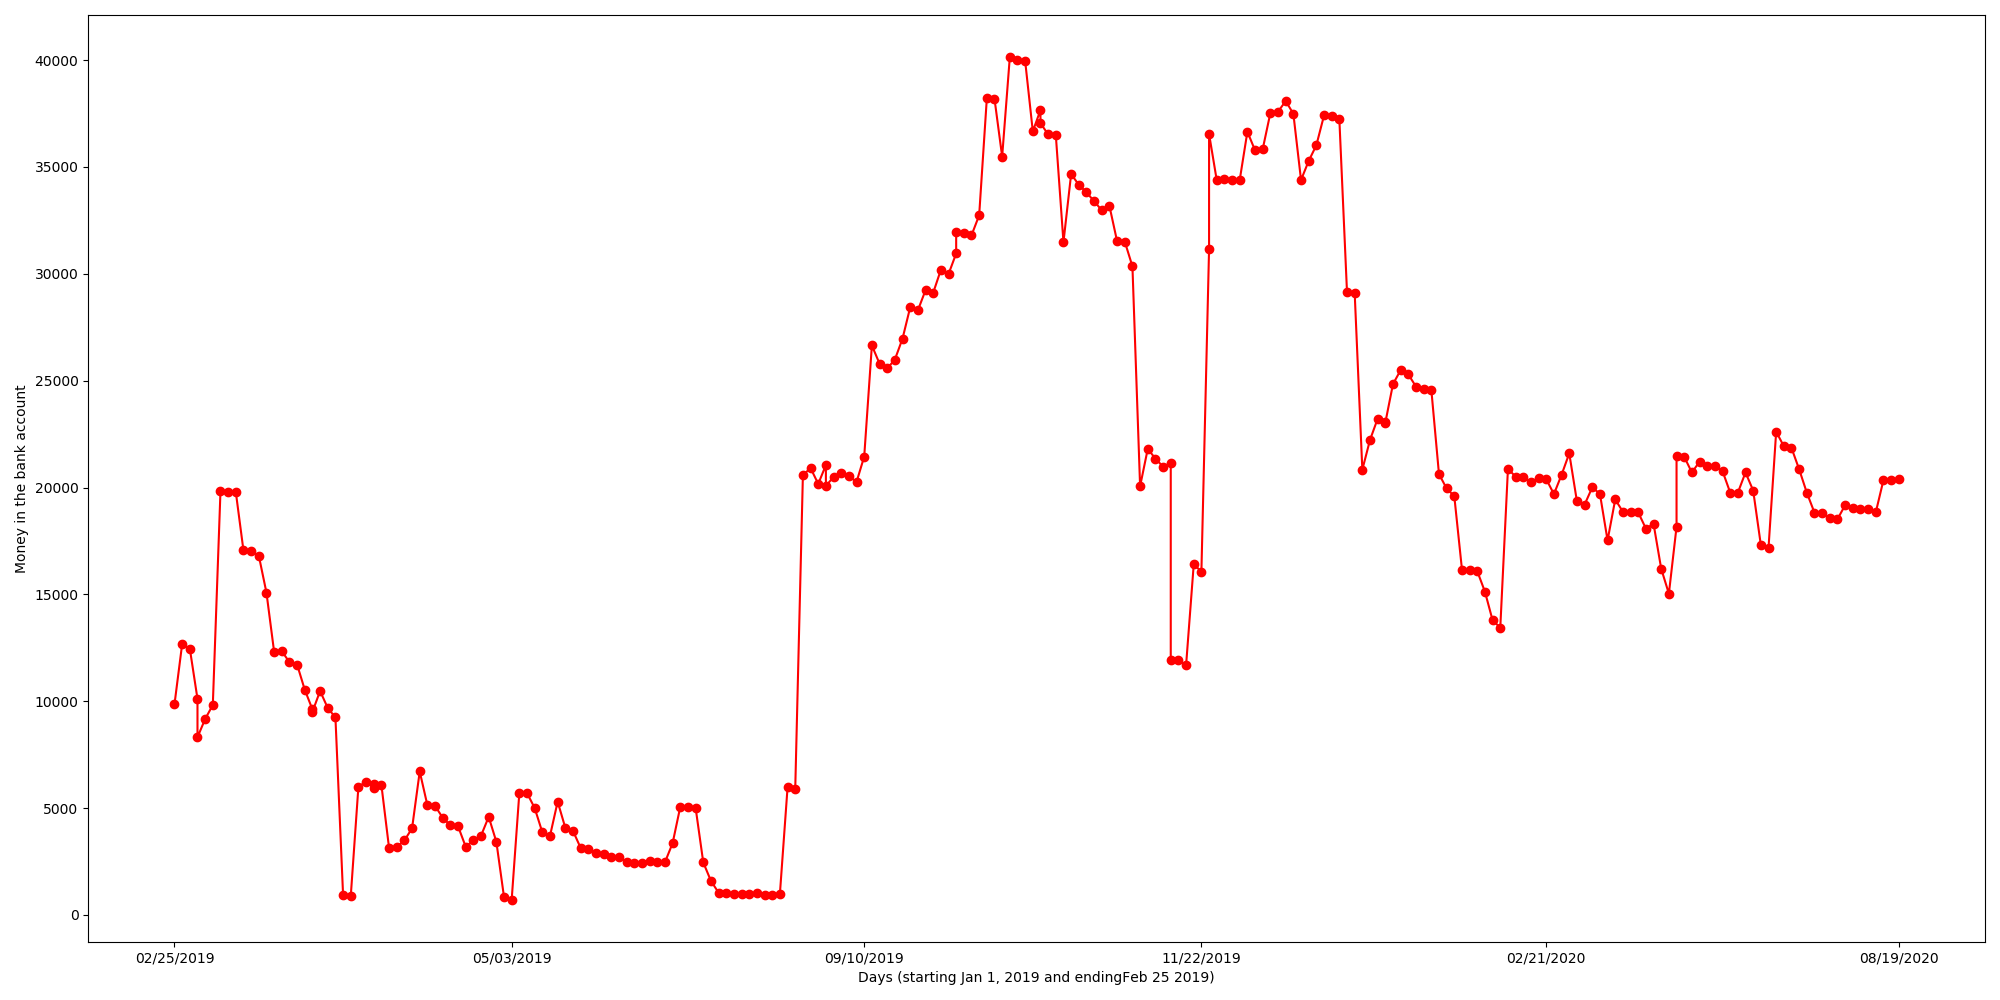
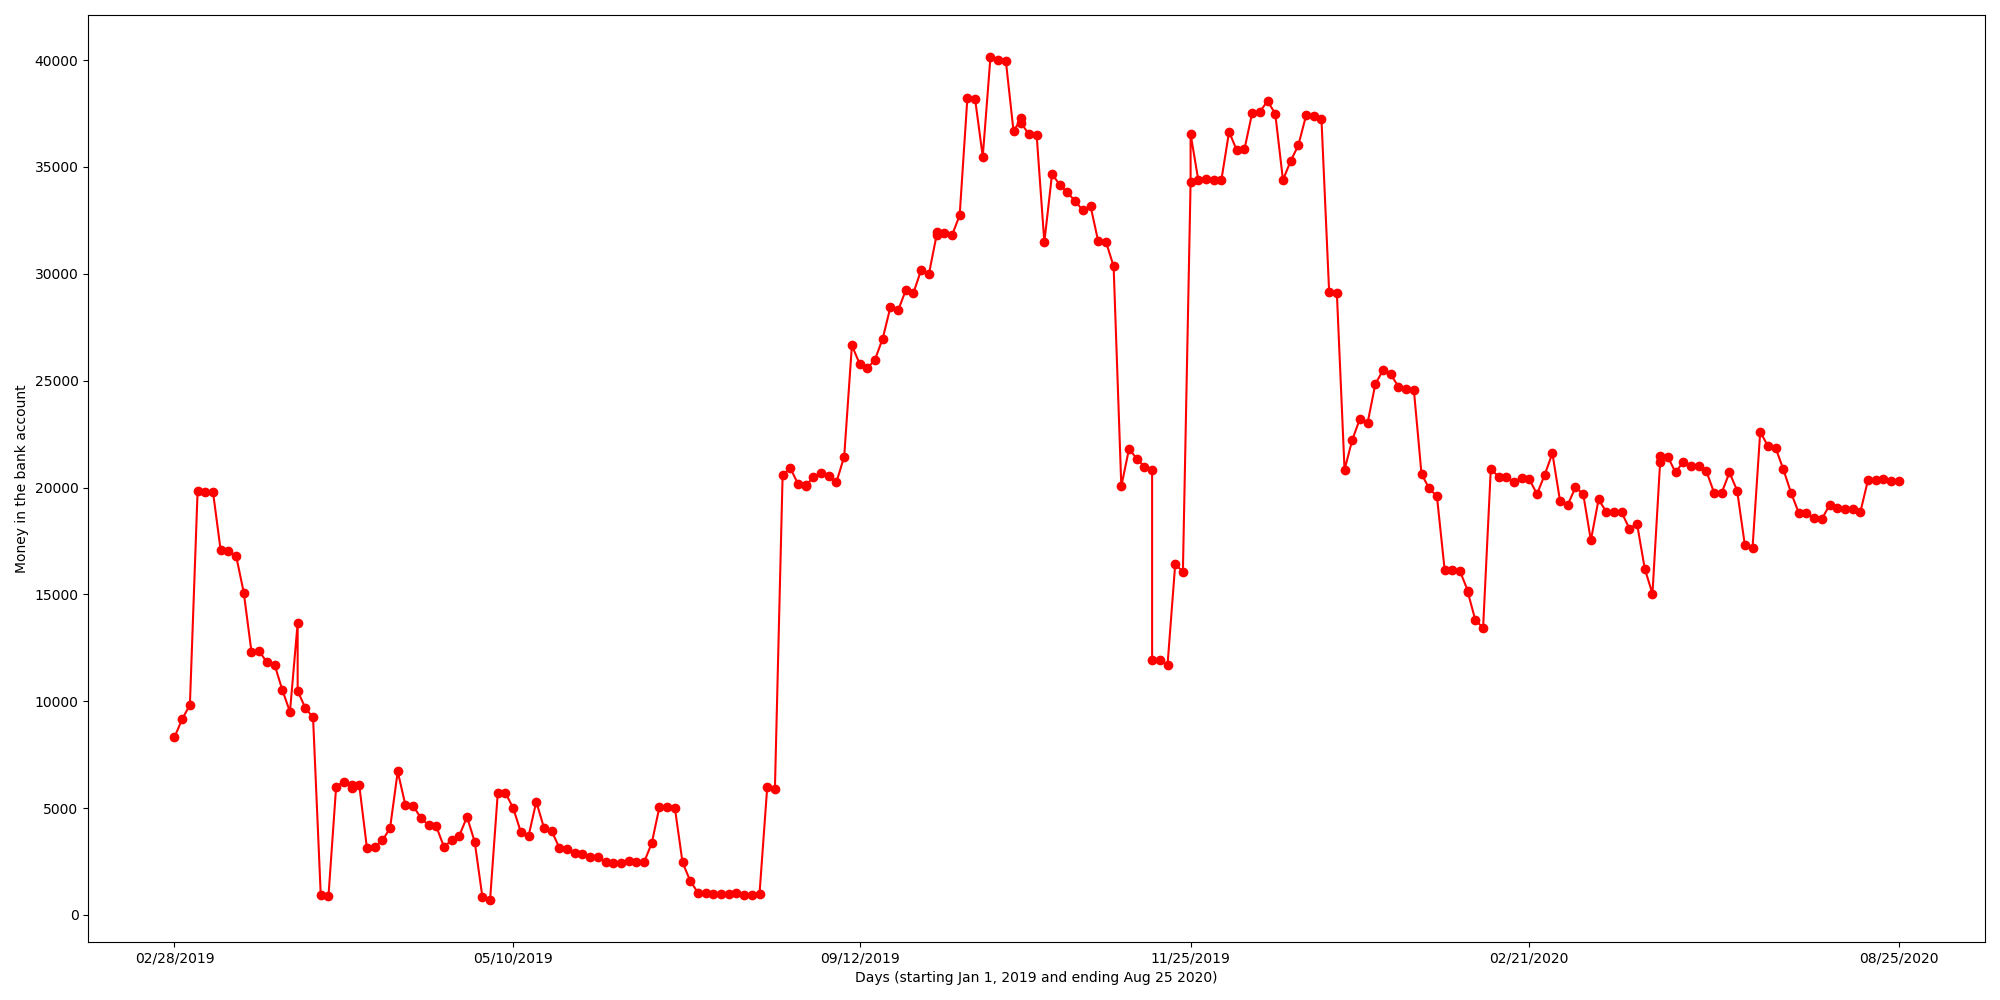
Automated message

diff --git a/datapage.html b/datapage.html
@@ -59,6 +59,14 @@ li a {
 	<th> Amount </th>
 </tr>
 <tr>
+	<th> 08/25/2020 </th>
+	<th> 20303.64 </th>
+</tr>
+<tr>
+	<th> 08/24/2020 </th>
+	<th> 20321.59 </th>
+</tr>
+<tr>
 	<th> 08/19/2020 </th>
 	<th> 20395.32 </th>
 </tr>
@@ -180,7 +188,7 @@ li a {
 </tr>
 <tr>
 	<th> 03/27/2020 </th>
-	<th> 18157.85 </th>
+	<th> 21206.55 </th>
 </tr>
 <tr>
 	<th> 03/23/2020 </th>
@@ -283,6 +291,10 @@ li a {
 	<th> 15121.82 </th>
 </tr>
 <tr>
+	<th> 02/07/2020 </th>
+	<th> 15178.91 </th>
+</tr>
+<tr>
 	<th> 02/05/2020 </th>
 	<th> 16082.93 </th>
 </tr>
@@ -333,10 +345,6 @@ li a {
 <tr>
 	<th> 01/15/2020 </th>
 	<th> 23035.41 </th>
-</tr>
-<tr>
-	<th> 01/15/2020 </th>
-	<th> 23066.36 </th>
 </tr>
 <tr>
 	<th> 01/13/2020 </th>
@@ -432,7 +440,7 @@ li a {
 </tr>
 <tr>
 	<th> 11/25/2019 </th>
-	<th> 31153.67 </th>
+	<th> 34283.67 </th>
 </tr>
 <tr>
 	<th> 11/22/2019 </th>
@@ -456,7 +464,7 @@ li a {
 </tr>
 <tr>
 	<th> 11/18/2019 </th>
-	<th> 21155.36 </th>
+	<th> 20825.98 </th>
 </tr>
 <tr>
 	<th> 11/15/2019 </th>
@@ -528,7 +536,7 @@ li a {
 </tr>
 <tr>
 	<th> 10/23/2019 </th>
-	<th> 37657.88 </th>
+	<th> 37269.87 </th>
 </tr>
 <tr>
 	<th> 10/22/2019 </th>
@@ -576,7 +584,7 @@ li a {
 </tr>
 <tr>
 	<th> 10/01/2019 </th>
-	<th> 30952.87 </th>
+	<th> 31802.87 </th>
 </tr>
 <tr>
 	<th> 09/30/2019 </th>
@@ -648,7 +656,7 @@ li a {
 </tr>
 <tr>
 	<th> 09/03/2019 </th>
-	<th> 21049.75 </th>
+	<th> 20119.75 </th>
 </tr>
 <tr>
 	<th> 08/30/2019 </th>
@@ -888,7 +896,7 @@ li a {
 </tr>
 <tr>
 	<th> 04/05/2019 </th>
-	<th> 6139.53 </th>
+	<th> 6079.53 </th>
 </tr>
 <tr>
 	<th> 04/04/2019 </th>
@@ -919,12 +927,12 @@ li a {
 	<th> 10479.47 </th>
 </tr>
 <tr>
-	<th> 03/26/2019 </th>
-	<th> 9506.37 </th>
+	<th> 03/27/2019 </th>
+	<th> 13658.47 </th>
 </tr>
 <tr>
 	<th> 03/26/2019 </th>
-	<th> 9618.87 </th>
+	<th> 9506.37 </th>
 </tr>
 <tr>
 	<th> 03/25/2019 </th>
@@ -985,22 +993,6 @@ li a {
 <tr>
 	<th> 02/28/2019 </th>
 	<th> 8314.90 </th>
-</tr>
-<tr>
-	<th> 02/28/2019 </th>
-	<th> 10112.89 </th>
-</tr>
-<tr>
-	<th> 02/27/2019 </th>
-	<th> 12461.69 </th>
-</tr>
-<tr>
-	<th> 02/26/2019 </th>
-	<th> 12679.00 </th>
-</tr>
-<tr>
-	<th> 02/25/2019 </th>
-	<th> 9857.72 </th>
 </tr>
 </table>
 </div>

diff --git a/index.html b/index.html
@@ -43,9 +43,9 @@ li a {
 </ul>
 <h1 style = "text-align:center;"> International Relations Organization at UVA's Data Webpage</h1>
 <h2 style = "background-color:tomato; text-align:center;"> IRO at UVA is not officially affiliated with the university</h2>
-<h2 style = "text-align:center;"> Last Updated 08-24-2020</h2>
-<h2 style = "text-align:center;"> <strong> The IRO bank account has $20,395.32 as of now </strong></h2>
-<h2 style = "text-align:center";> Since Feb 25, 2019:</h2>
+<h2 style = "text-align:center;"> Last Updated 08-30-2020</h2>
+<h2 style = "text-align:center;"> <strong> The IRO bank account has $20,303.64 as of now </strong></h2>
+<h2 style = "text-align:center";> Since Feb 28, 2019:</h2>
 <ul>
 	<li><h2> The minimal amount in the account was $718.66 on May 03, 2019 </h2></li>
 	<li><h2> The maximal amount in the account was $40,138.35 on Oct 15, 2019 </h2></li>

diff --git a/charts.html b/charts.html
@@ -42,7 +42,7 @@ li a {
 	<li class = "bar"><a href=https://www.iroatuva.org/about>About</a></li>
 </ul>
 <h1 style = "text-align:center;"> Some Extra Graphs </h1>
-<h2 style = "text-align:center;"> Last Updated 08-24-2020</h2>
+<h2 style = "text-align:center;"> Last Updated 08-30-2020</h2>
 <img src = "Bank_Account_Data_IRO_1_1_2020.png" alt = "Another graph of the bank account">
 <img src = "Bank_Account_Data_IRO_6_1_2020.png" alt = "Another graph of the bank account">
 </body>
